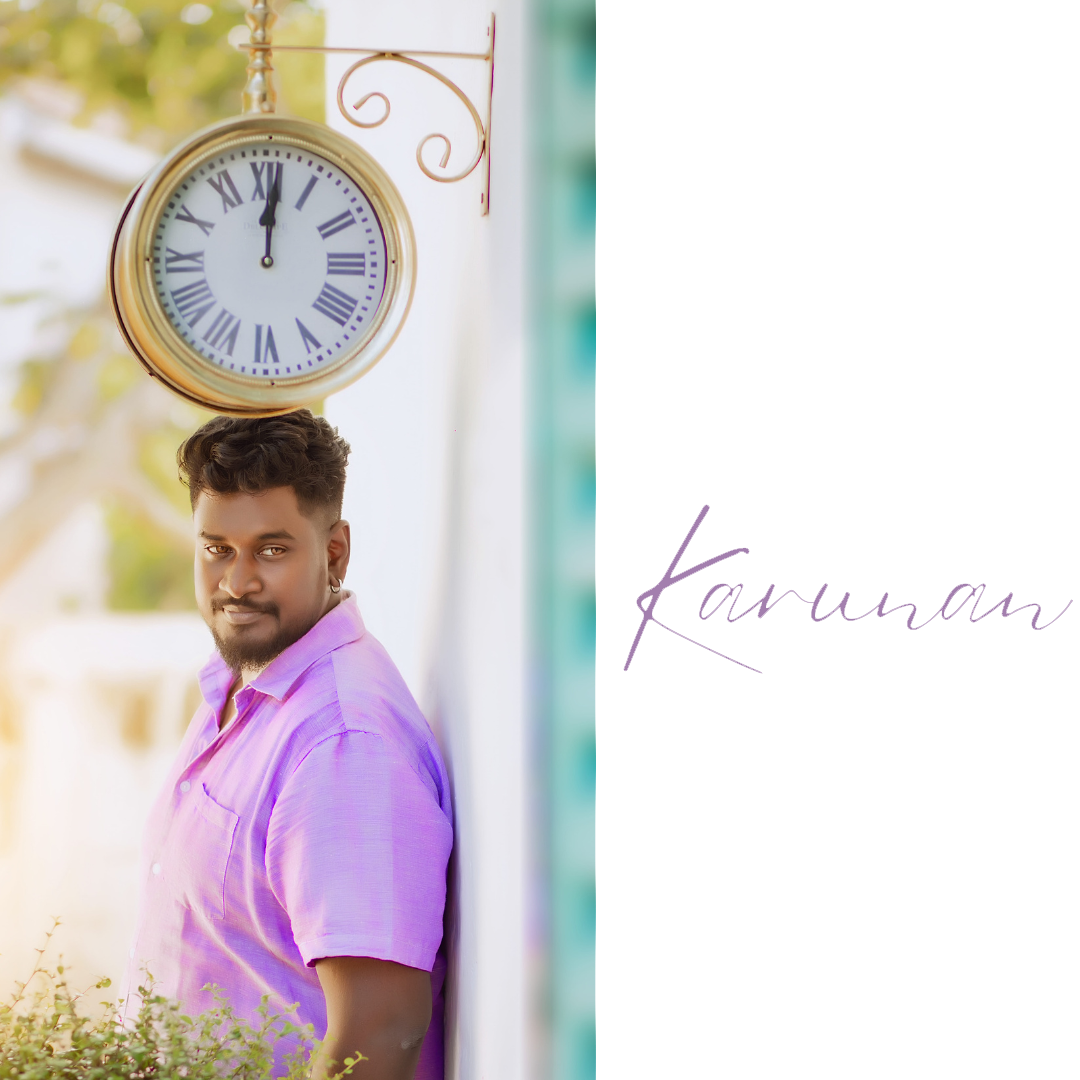
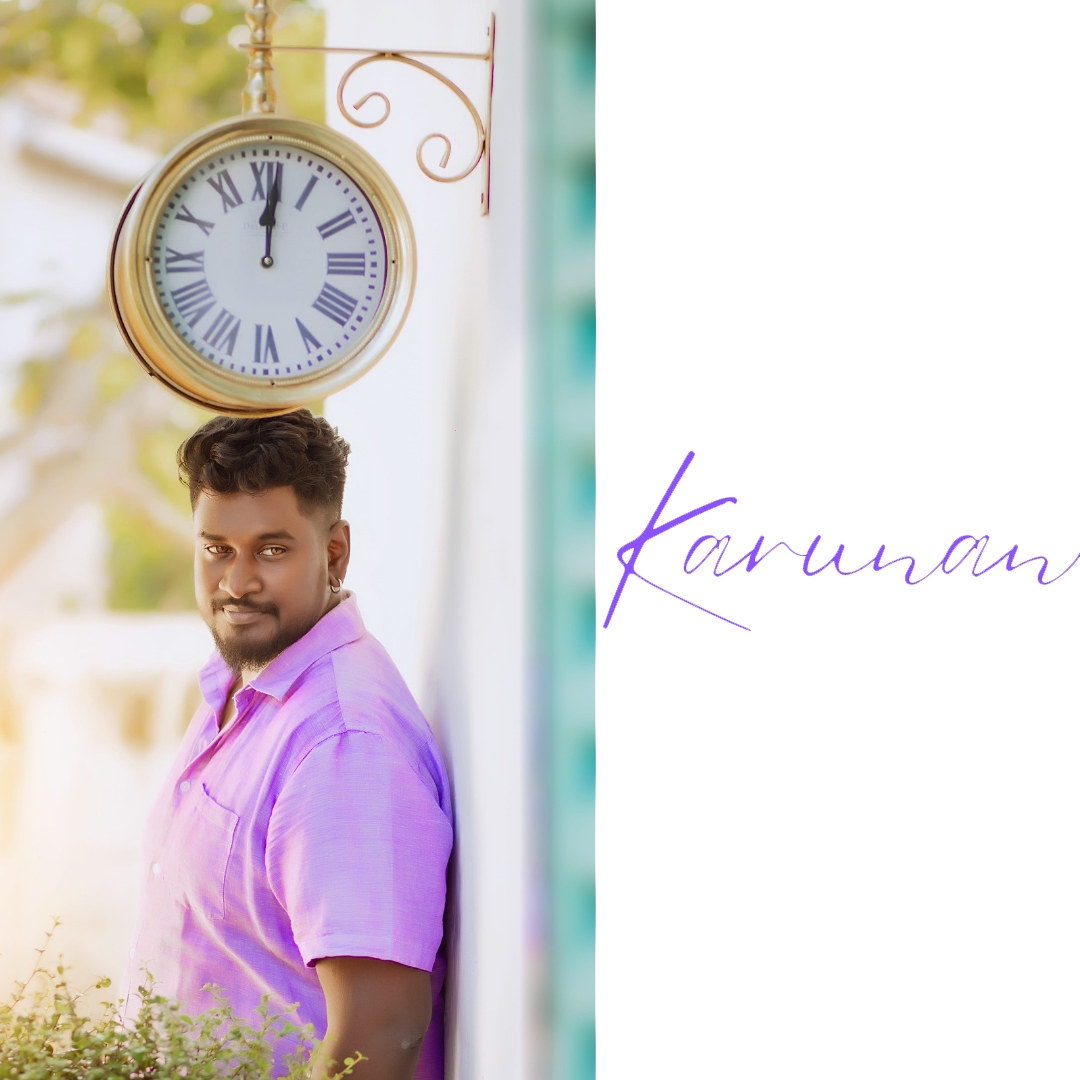
Perfect_fit

Changed region(s): [[0.55, 0.4278, 0.9778, 0.6111]]

diff --git a/gallery.html b/gallery.html
@@ -1,0 +1,67 @@
+<!DOCTYPE html>
+<html lang="en">
+
+<head>
+    <meta charset="UTF-8">
+    <meta name="viewport" content="width=device-width, initial-scale=1.0">
+    <title>Wedding Gallery</title>
+    <link rel="stylesheet" href="gallery.css"> <!-- Link to your CSS file -->
+    <link href="https://cdn.jsdelivr.net/npm/bootstrap@5.3.3/dist/css/bootstrap.min.css" rel="stylesheet" integrity="sha384-QWTKZyjpPEjISv5WaRU9OFeRpok6YctnYmDr5pNlyT2bRjXh0JMhjY6hW+ALEwIH" crossorigin="anonymous">
+    <script src="gallery.js" defer></script> <!-- Link to your JavaScript file -->
+    <link rel="stylesheet" href="https://fonts.googleapis.com/css?family=Great+Vibes">
+    
+</head>
+
+<body>
+    <div class="center">
+        <h1>Rubani Weds Karunan</h1>
+        <h2 class="rouge-script-regular">Welcome to the Gallery</h2>
+    </div>
+    <div class="gallery">
+        <a href="#" class="photo" data-large="assets/gallery/1.jpg"><img src="assets/gallery/1.jpg"
+                alt="Wedding Photo 1"></a>
+        <a href="#" class="photo" data-large="assets/gallery/2.jpg"><img src="assets/gallery/2.jpg"
+                alt="Wedding Photo 2"></a>
+        <a href="#" class="photo" data-large="assets/gallery/3.jpg"><img src="assets/gallery/3.jpg"
+                alt="Wedding Photo 3"></a>
+        <a href="#" class="photo" data-large="assets/gallery/4.jpg"><img src="assets/gallery/4.jpg"
+                alt="Wedding Photo 4"></a>
+        <a href="#" class="photo" data-large="assets/gallery/5.jpg"><img src="assets/gallery/5.jpg"
+                alt="Wedding Photo 5"></a>
+        <a href="#" class="photo" data-large="assets/gallery/6.jpg"><img src="assets/gallery/6.jpg"
+                alt="Wedding Photo 6"></a>
+        <a href="#" class="photo" data-large="assets/gallery/7.jpg"><img src="assets/gallery/7.jpg"
+                alt="Wedding Photo 7"></a>
+        <a href="#" class="photo" data-large="assets/gallery/8.jpg"><img src="assets/gallery/8.jpg"
+                alt="Wedding Photo 8"></a>
+        <a href="#" class="photo" data-large="assets/gallery/9.jpg"><img src="assets/gallery/9.jpg"
+                alt="Wedding Photo 9"></a>
+        <a href="#" class="photo" data-large="assets/gallery/10.jpg"><img src="assets/gallery/10.jpg"
+                alt="Wedding Photo 10"></a>
+        <a href="#" class="photo" data-large="assets/gallery/11.jpg"><img src="assets/gallery/11.jpg"
+                alt="Wedding Photo 11"></a>
+        <a href="#" class="photo" data-large="assets/gallery/12.jpg"><img src="assets/gallery/12.jpg"
+                alt="Wedding Photo 12"></a>
+        <a href="#" class="photo" data-large="assets/gallery/13.jpg"><img src="assets/gallery/13.jpg"
+                alt="Wedding Photo 13"></a>
+        <a href="#" class="photo" data-large="assets/gallery/14.jpg"><img src="assets/gallery/14.jpg"
+                alt="Wedding Photo 14"></a>
+        <a href="#" class="photo" data-large="assets/gallery/15.jpg"><img src="assets/gallery/15.jpg"
+                alt="Wedding Photo 15"></a>
+        <!-- Add more photos here >>liana is a nice font -->
+    </div>
+    <div class="center">
+        <h2 class="rouge-script-regular">Get back to home</h2>
+        <a href="index.html" target="_blank" class="btn btn-success">Click Here</a>
+    </div>
+
+    <div id="lightbox" class="lightbox" onclick="closeLightbox()">
+        <img id="lightbox-img" src="" alt="Enlarged photo">
+    </div>
+    <script src="https://cdn.jsdelivr.net/npm/@popperjs/core@2.9.3/dist/umd/popper.min.js"></script>
+    <script src="https://cdn.jsdelivr.net/npm/bootstrap@5.3.3/dist/js/bootstrap.min.js"
+        integrity="sha384-qzg3M5+3B1L1eP3fTBI4C+EFWfbFJF5HkdPEuM/Hj7lFfUPJbFaeT+Kdr+Pdmw5K"
+        crossorigin="anonymous"></script>
+</body>
+
+</html>

diff --git a/index.html b/index.html
@@ -7,6 +7,7 @@
   <link rel="stylesheet" href="https://fonts.googleapis.com/css?family=Great+Vibes">
   <link href="https://cdn.jsdelivr.net/npm/bootstrap@5.3.3/dist/css/bootstrap.min.css" rel="stylesheet" integrity="sha384-QWTKZyjpPEjISv5WaRU9OFeRpok6YctnYmDr5pNlyT2bRjXh0JMhjY6hW+ALEwIH" crossorigin="anonymous">
   <link href="https://fonts.googleapis.com/css2?family=Rouge+Script&display=swap" rel="stylesheet">
+  <link href="https://fonts.googleapis.com/css2?family=Protest+Riot&display=swap" rel="stylesheet">
   <title>Rubani Weds Karunan</title>
   <link rel="stylesheet" href="styles.css">
 </head>
@@ -15,6 +16,8 @@
   <div class="center">
     <h1>Rubani Weds Karunan</h1>
     <h2 class="rouge-script-regular">We are getting married!</h2>
+    <h2 class="rouge-script-regular">Save The Date</h2>
+    <h3 class="protest-riot-regular">16th June 2024</h3>
     <div id="countdown" class="countdown-container"></div>
     <button id="saveDateButton" class="btn btn-outline-danger">Save the Date</button>
   </div>
@@ -31,15 +34,16 @@
     </div>    
   </div> 
   <div class="right-section">
-    <div class="names">
-    </div>
+    <img src="assets/devider.png" alt="devider">
+  </div>
+  <div class="center">
+    <h2 class="rouge-script-regular">A Beautiful Beginning</h2>
+  </div>
+  <div class="right-section">
     <img src="assets/Karunan.png" class="img-fluid" alt="Groom Photo">
   </div>
   <div class="right-section">
-    <img src="assets/bride-photo.jpg" class="img-fluid" alt="Bride Photo">
-    <div class="names">
-      <h1>Rubani</h1>
-    </div>
+    <img src="assets/Rubani.png" class="img-fluid" alt="Bride Photo">
   </div>
   <div class="center">
     <h2 class="rouge-script-regular">A Tale of Two Hearts: Our Wedding Film</h2>
@@ -48,12 +52,20 @@
     </div>
     <script src="https://player.vimeo.com/api/player.js"></script>
   </div>
-  
+  <div class="center">
+    <h2 class="rouge-script-regular">Check out our photo shoot</h2>
+    <a href="gallery.html" target="_blank" class="btn btn-success">Click Here</a>
+  </div>
   <div class="wedding-info">
     <h1>Venue</h1>
+    <div class="hall">
+      <img src="assets/hall.jpg" class="img-fluid" alt="Hall">
+    </div>
     <h2 class="rouge-script-regular">Srilanka Mukkulathor Cultural Hall</h2>
-    <a href="https://maps.app.goo.gl/yAAyQgi2ExNkUaNg9" target="_blank" class="btn btn-success">Location</a>
-    <p>You are invited to celebrate with us!</p>
+    <a href="https://maps.app.goo.gl/yAAyQgi2ExNkUaNg9" target="_blank" class="btn btn-success">View Location</a>
+  </div>
+  <div class="center">
+    <h3 class="protest-riot-regular">💓You are invited to celebrate with us!💓</h3>
   </div>
   </div>
   <script src="https://cdn.jsdelivr.net/npm/@popperjs/core@2.9.3/dist/umd/popper.min.js"></script>

diff --git a/styles.css b/styles.css
@@ -1,5 +1,5 @@
 body {
-  background-color:rgb(213, 203, 235) !important;
+  background-color:rgb(236, 233, 245) !important;
 }
 
 .container {
@@ -79,6 +79,14 @@ max-width: 100%; /* Ensure images don't exceed container width */
   color: purple;
 }
 
+.countdown-container{
+ margin-bottom: 15px;
+}
+
+.hall{
+  padding: 0px 10px 0px 10px;
+}
+
 #countdown div{
   padding: 5px 0; /* Add some vertical spacing between the elements */
   font-size: 20px; /* Adjust font size as needed */
@@ -90,6 +98,9 @@ max-width: 100%; /* Ensure images don't exceed container width */
 
 .wedding-info {
   text-align: center;
+  border: solid;
+  border-color: mediumpurple;
+  padding: 7px 7px 7px 7px;
 }
 h1 {
   font-family: 'Great Vibes', cursive;
@@ -102,6 +113,14 @@ font-weight: 400;
 font-style: normal;
 font-size: 50px !important;
 }
+
+.protest-riot-regular {
+  font-family: "Protest Riot", sans-serif;
+  font-weight: 400;
+  font-style: normal;
+  font-size: 25px !important;
+}
+
 
 .carousel {
   position: relative;

diff --git a/gallery.js b/gallery.js
@@ -1,0 +1,25 @@
+document.addEventListener('DOMContentLoaded', () => {
+    const photos = document.querySelectorAll('.photo');
+
+    photos.forEach(photo => {
+        photo.addEventListener('click', (e) => {
+            e.preventDefault(); // Prevent default anchor behavior
+            const largeImageURL = photo.getAttribute('data-large');
+            openLightbox(largeImageURL);
+        });
+    });
+});
+
+function openLightbox(imageURL) {
+    const lightboxImage = document.getElementById('lightbox-img');
+    const lightbox = document.getElementById('lightbox');
+    
+    lightboxImage.src = imageURL;
+    lightbox.style.display = 'flex';
+}
+
+function closeLightbox() {
+    const lightbox = document.getElementById('lightbox');
+    lightbox.style.display = 'none';
+    lightboxImage.src = ''; // Clear the source
+}

diff --git a/gallery.css b/gallery.css
@@ -1,0 +1,43 @@
+/* Gallery grid layout */
+.gallery {
+    display: grid;
+    grid-template-columns: repeat(auto-fit, minmax(100px, 1fr));
+    gap: 16px;
+    padding: 16px;
+}
+
+.photo img {
+    width: 100%;
+    height: auto;
+    border-radius: 8px; /* Optional: for rounded corners */
+}
+
+/* Lightbox styles */
+.lightbox {
+    display: none;
+    position: fixed;
+    z-index: 1000;
+    left: 0;
+    top: 0;
+    width: 100%;
+    height: 100%;
+    background-color: rgba(0, 0, 0, 0.8);
+    align-items: center;
+    justify-content: center;
+    text-align: center;
+}
+
+.lightbox img {
+    max-width: 90%;
+    max-height: 80%;
+    margin: auto;
+}
+.center {
+    text-align: center;
+    padding: 10px;
+  }
+
+  h1 {
+    font-family: 'Great Vibes', cursive;
+    font-size: 70px !important;
+  }
